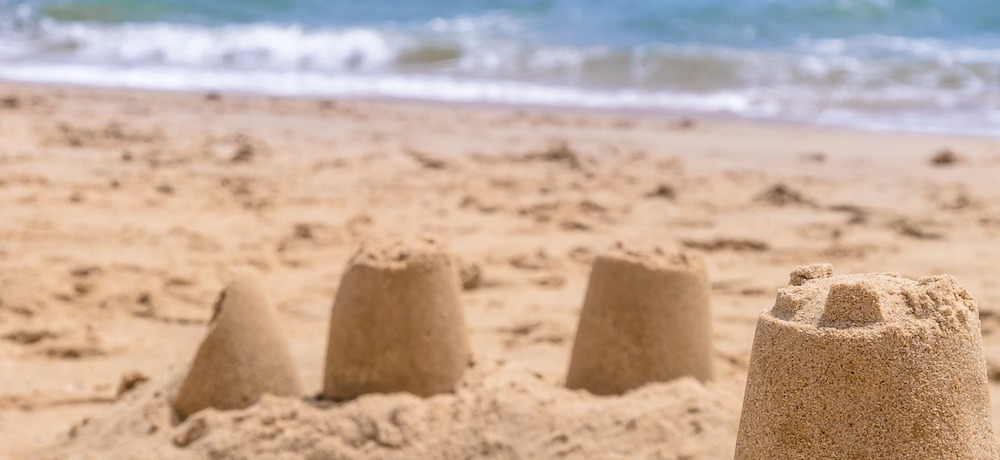
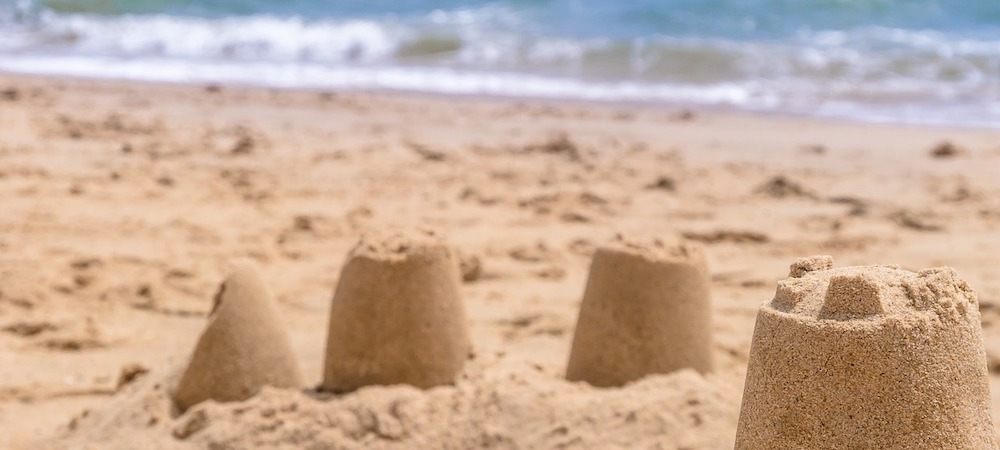
Series: Nothing to watch today

diff --git a/assets/styles/serie.scss b/assets/styles/serie.scss
@@ -2136,8 +2136,11 @@
             .something-else {
                 img {
                     border-radius: 1rem;
+                    height: 450px;
+                    object-fit: cover;
                     opacity: 0;
                     transition: opacity 300ms ease-in-out;
+                    width: 1000px;
 
                     &.show {
                         opacity: 1;
